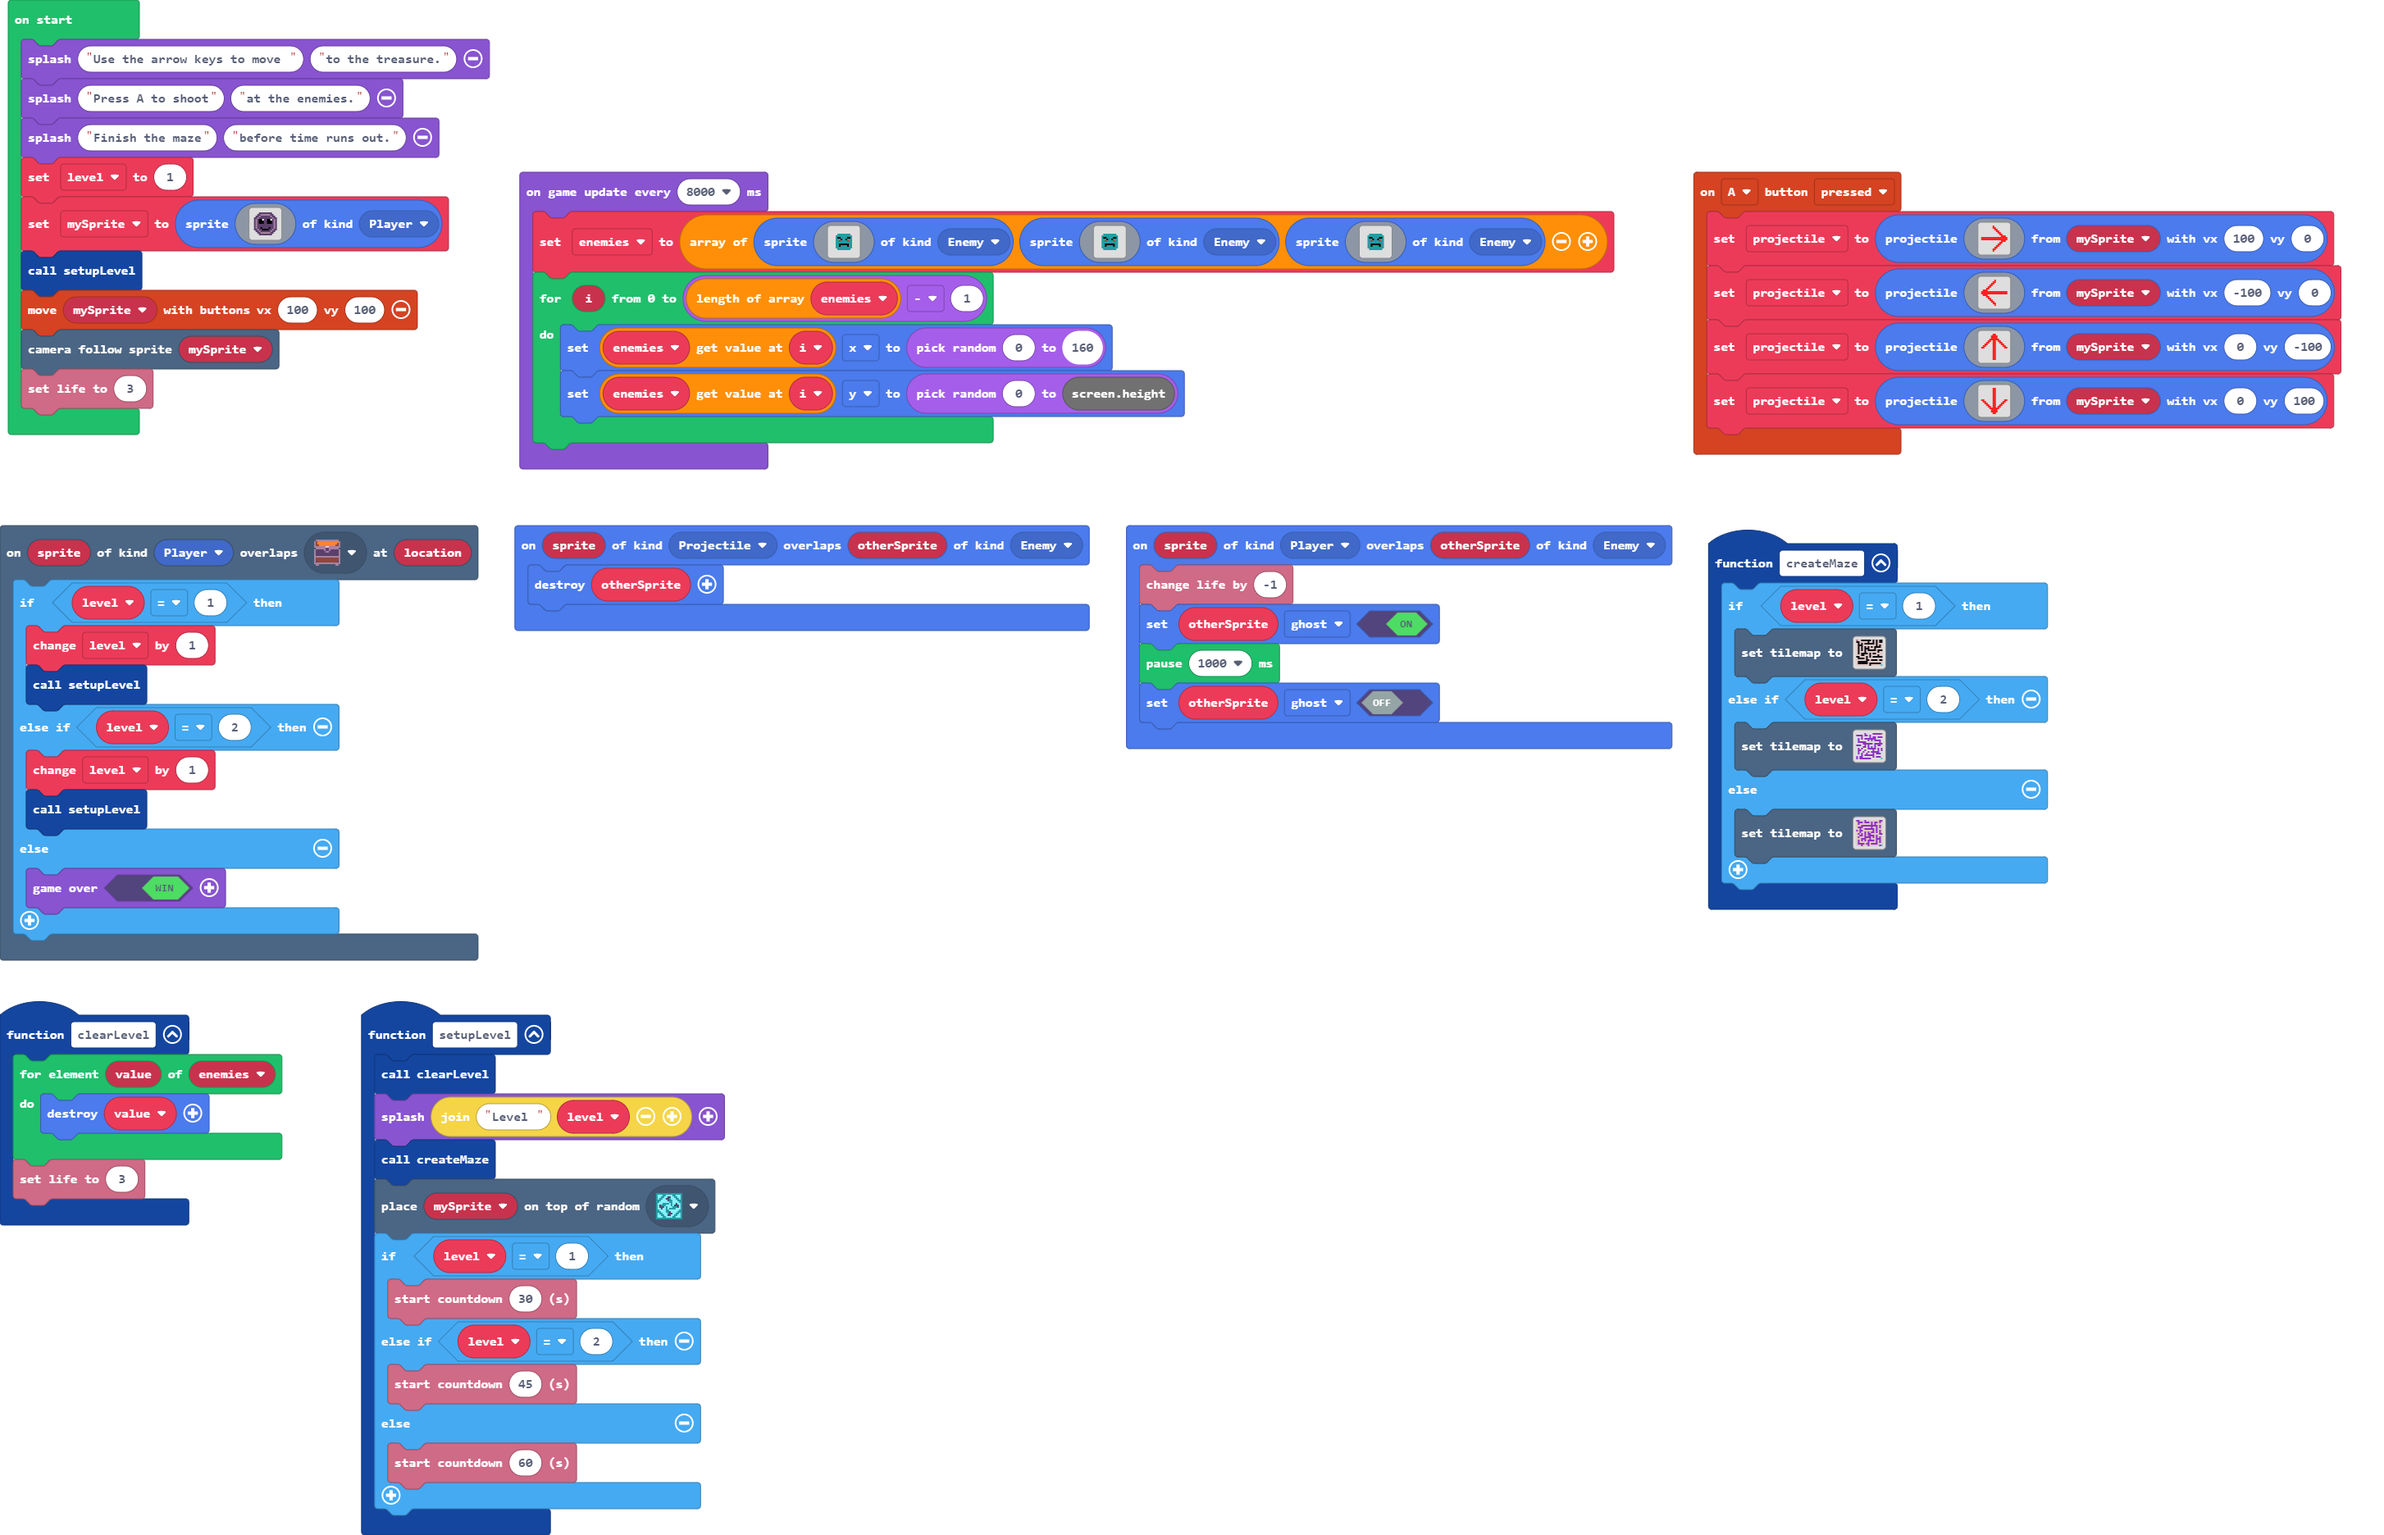
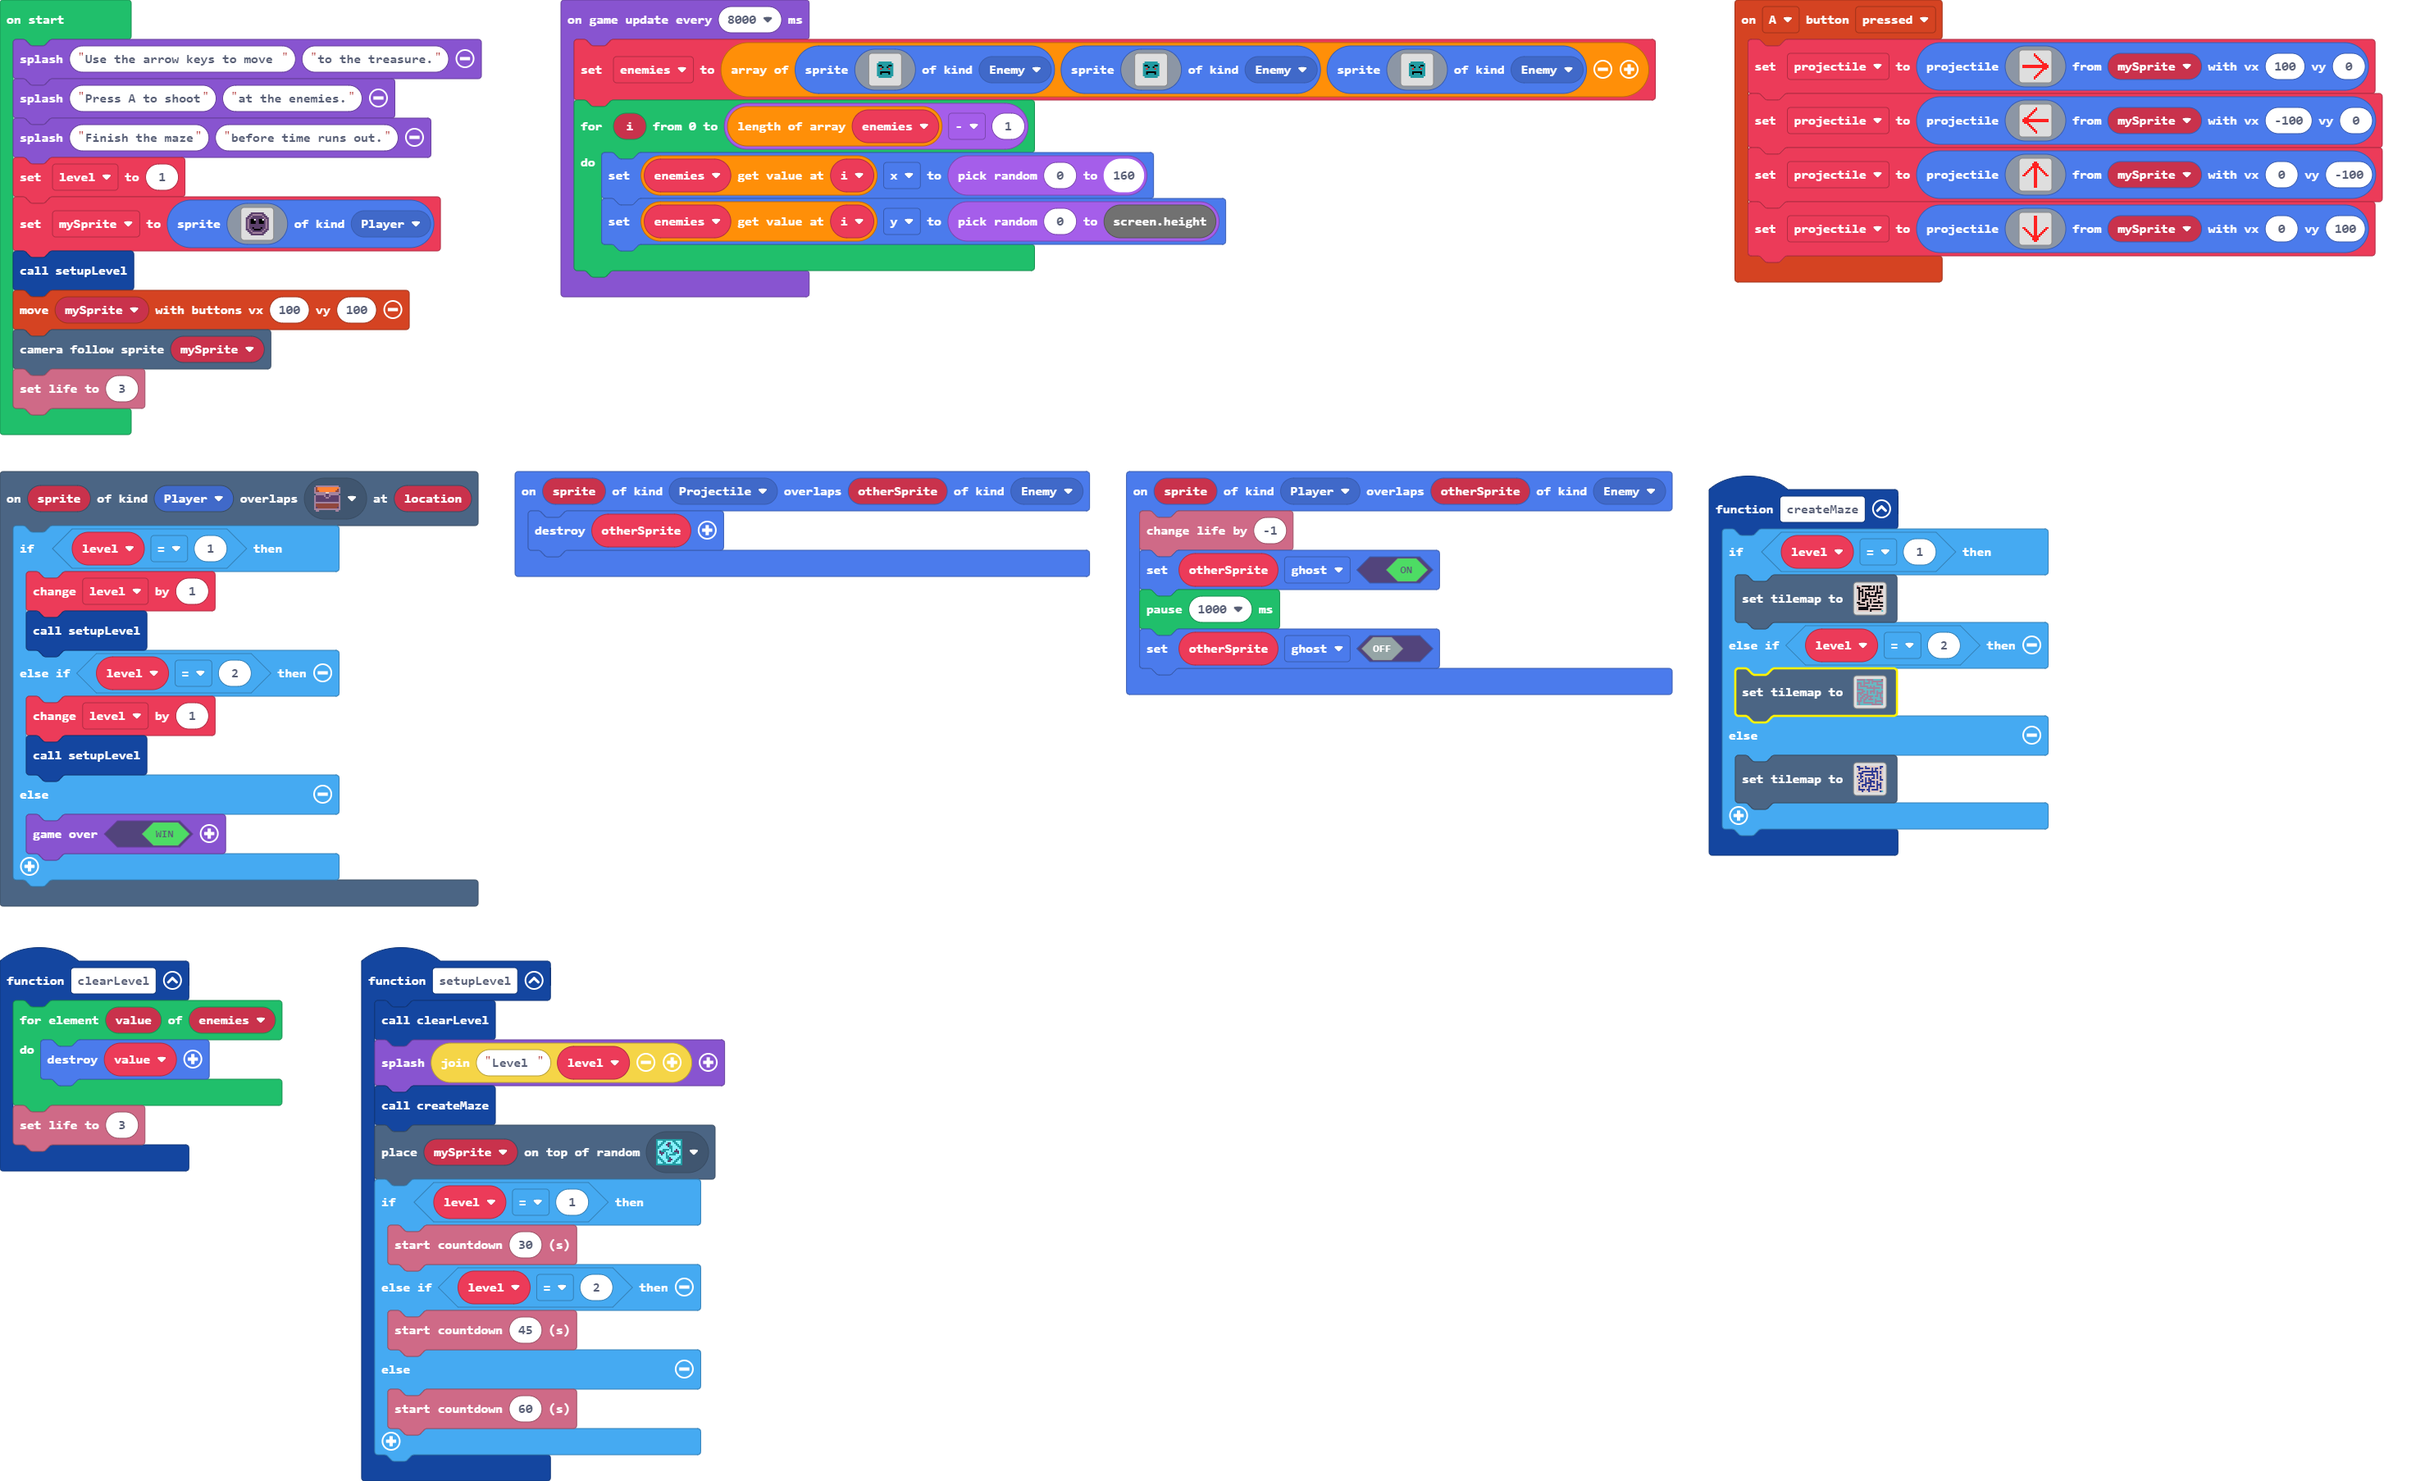
Update main.blocks, tilemap.g.jres, tilemap.g.ts

diff --git a/tilemap.g.ts b/tilemap.g.ts
@@ -8,6 +8,10 @@ namespace myTiles {
     export const tile2 = image.ofBuffer(hex``);
     //% fixedInstance jres blockIdentity=images._tile
     export const tile3 = image.ofBuffer(hex``);
+    //% fixedInstance jres blockIdentity=images._tile
+    export const tile4 = image.ofBuffer(hex``);
+    //% fixedInstance jres blockIdentity=images._tile
+    export const tile5 = image.ofBuffer(hex``);
 
     helpers._registerFactory("tilemap", function(name: string) {
         switch(helpers.stringTrim(name)) {
@@ -30,25 +34,6 @@ namespace myTiles {
 . . . . . . . . . . . . . . . . 
 . . . . . . . . . . . . . . . . 
 `, [myTiles.transparency16], TileScale.Sixteen);
-            case "level3":
-            case "level3":return tiles.createTilemap(hex`1000100000000000000100000000010101010103010101010001010001000000000000000000000100000000010001010001010100010001000101010101010100000000000100000000000100010001010101000001010101010000000000000000010000000000010101010101000101010101010101000001000100000001000101000000000001010001000100010000000000010001000000010101010100010001000101000001000000000100000100010001000001000001000101010101000000010001000001000000010001010100000000010001010101010100000000000100010100000000000001000101010001000101010101010100000000000002`, img`
-. . . . . 2 . . . . 2 2 2 2 2 . 
-2 2 2 2 . 2 2 . 2 . . . . . . . 
-. . . 2 . . . . 2 . 2 2 . 2 2 2 
-. 2 . 2 . 2 2 2 2 2 2 2 . . . . 
-. 2 . . . . . 2 . 2 . 2 2 2 2 . 
-. 2 2 2 2 2 . . . . . . . . 2 . 
-. . . . 2 2 2 2 2 2 . 2 2 2 2 2 
-2 2 2 . . 2 . 2 . . . 2 . 2 2 . 
-. . . . 2 2 . 2 . 2 . 2 . . . . 
-. 2 . 2 . . . 2 2 2 2 2 . 2 . 2 
-. 2 2 . . 2 . . . . 2 . . 2 . 2 
-. 2 . . 2 . . 2 . 2 2 2 2 2 . . 
-. 2 . 2 . . 2 . . . 2 . 2 2 2 . 
-. . . 2 . 2 2 2 2 2 2 . . . . . 
-2 . 2 2 . . . . . . 2 . 2 2 2 . 
-2 . 2 2 2 2 2 2 2 . . . . . . . 
-`, [myTiles.transparency16,sprites.swamp.swampTile9,sprites.dungeon.collectibleInsignia,sprites.dungeon.chestOpen], TileScale.Sixteen);
             case "level4":
             case "level4":return tiles.createTilemap(hex`1000100000000000000000000000000000000000000000000000000000000000000000000000000000000000000000000000000000000000000000000000000000000000000000000000000000000000000000000000000000000000000000000000000000000000000000000000000000000000000000000000000000000000000000000000000000000000000000000000000000000000000000000000000000000000000000000000000000000000000000000000000000000000000000000000000000000000000000000000000000000000000000000000000000000000000000000000000000000000000000000000000000000000000000000000000000000000`, img`
 . . . . . . . . . . . . . . . . 
@@ -125,25 +110,6 @@ namespace myTiles {
 . . . . . . . . . . . . . . . . 
 . . . . . . . . . . . . . . . . 
 `, [myTiles.transparency16], TileScale.Sixteen);
-            case "level8":
-            case "level8":return tiles.createTilemap(hex`1000100004040303030403030303030303030404030404040304040403040304040304030304030303030303030403040303030303030304040404040404040404030403030404040303030303040303040304030303040303040404040404030403030304030404030303030303040304030403030304030304030403040403040304030304030403040304040303030303040403030404030403020404040304030303030403030304040404030403040304030303030404040303040303030404040303040304030403040404040304030403030403030303030403030303040304030304040404030404030404040403030303030304030303040303030303030401`, img`
-2 2 . . . 2 . . . . . . . . 2 2 
-. 2 2 2 . 2 2 2 . 2 . 2 2 . 2 . 
-. 2 . . . . . . . 2 . 2 . . . . 
-. . . 2 2 2 2 2 2 2 2 2 2 . 2 . 
-. 2 2 2 . . . . . 2 . . 2 . 2 . 
-. . 2 . . 2 2 2 2 2 2 . 2 . . . 
-2 . 2 2 . . . . . . 2 . 2 . 2 . 
-. . 2 . . 2 . 2 . 2 2 . 2 . 2 . 
-. 2 . 2 . 2 . 2 2 . . . . . 2 2 
-. . 2 2 . 2 . . 2 2 2 . 2 . . . 
-. 2 . . . 2 2 2 2 . 2 . 2 . 2 . 
-. . . 2 2 2 . . 2 . . . 2 2 2 . 
-. 2 . 2 . 2 . 2 2 2 2 . 2 . 2 . 
-. 2 . . . . . 2 . . . . 2 . 2 . 
-. 2 2 2 2 . 2 2 . 2 2 2 2 . . . 
-. . . 2 . . . 2 . . . . . . 2 . 
-`, [myTiles.transparency16,sprites.dungeon.collectibleInsignia,sprites.dungeon.chestOpen,sprites.dungeon.floorLight2,sprites.swamp.swampTile9], TileScale.Sixteen);
             case "level1":
             case "level1":return tiles.createTilemap(hex`1000100002010103030303030301030103010303030301010101010301010301030103030103010301030303030303010301010101030303010101010101010103010301010301030103010301030103030303010103010301030303010101030101010101030103010301030303030301030303010301010103010101010101010301010103010303030301030103030101010101010103030101010301010101030101030301010101030103010303030303030103030303010301010101010101010101010101010103030103030303010303010303030303030101010101010101010103030303030301030303030303030101010101010101010301010101010104`, img`
 . . . 2 2 2 2 2 2 . 2 . 2 . 2 2 
@@ -163,6 +129,82 @@ namespace myTiles {
 . 2 2 2 2 2 2 . 2 2 2 2 2 2 2 . 
 . . . . . . . . 2 . . . . . . . 
 `, [myTiles.transparency16,sprites.dungeon.floorLight2,sprites.dungeon.chestOpen,myTiles.tile1,sprites.dungeon.collectibleInsignia], TileScale.Sixteen);
+            case "level9":
+            case "level9":return tiles.createTilemap(hex`1000100001010104040404010101010401010404010404040101040404040404040101040404010401010101040101010404010404010104010404010404040101040404040104040404010104010101010401040401010101040401040404040404010104040401040401010104010101010104040104040401010404040104010404040101010104010404010104040101010404040104040101040401010404040404040104010401040401010404010104010404040404010104040404010104040401010401040104040404010104040104040404010104040104010104040101040401010101010101040104040101010403010404040404040404040101040402`, img`
+. . . . . . . . . . . . . . . . 
+. . . . . . . . . . . . . . . . 
+. . . . . . . . . . . . . . . . 
+. . . . . . . . . . . . . . . . 
+. . . . . . . . . . . . . . . . 
+. . . . . . . . . . . . . . . . 
+. . . . . . . . . . . . . . . . 
+. . . . . . . . . . . . . . . . 
+. . . . . . . . . . . . . . . . 
+. . . . . . . . . . . . . . . . 
+. . . . . . . . . . . . . . . . 
+. . . . . . . . . . . . . . . . 
+. . . . . . . . . . . . . . . . 
+. . . . . . . . . . . . . . . . 
+. . . . . . . . . . . . . . . . 
+. . . . . . . . . . . . . . . . 
+`, [myTiles.transparency16,myTiles.tile4,sprites.dungeon.collectibleInsignia,sprites.dungeon.chestOpen,sprites.dungeon.floorDark2], TileScale.Sixteen);
+            case "level10":
+            case "level10":return tiles.createTilemap(hex`1000100000000000000000000000000000000000000000000000000000000000000000000000000000000000000000000000000000000000000000000000000000000000000000000000000000000000000000000000000000000000000000000000000000000000000000000000000000000000000000000000000000000000000000000000000000000000000000000000000000000000000000000000000000000000000000000000000000000000000000000000000000000000000000000000000000000000000000000000000000000000000000000000000000000000000000000000000000000000000000000000000000000000000000000000000000000000`, img`
+. . . . . . . . . . . . . . . . 
+. . . . . . . . . . . . . . . . 
+. . . . . . . . . . . . . . . . 
+. . . . . . . . . . . . . . . . 
+. . . . . . . . . . . . . . . . 
+. . . . . . . . . . . . . . . . 
+. . . . . . . . . . . . . . . . 
+. . . . . . . . . . . . . . . . 
+. . . . . . . . . . . . . . . . 
+. . . . . . . . . . . . . . . . 
+. . . . . . . . . . . . . . . . 
+. . . . . . . . . . . . . . . . 
+. . . . . . . . . . . . . . . . 
+. . . . . . . . . . . . . . . . 
+. . . . . . . . . . . . . . . . 
+. . . . . . . . . . . . . . . . 
+`, [myTiles.transparency16], TileScale.Sixteen);
+            case "level8":
+            case "level8":return tiles.createTilemap(hex`1000100003030404040304040404040404040303040303030403030304030403030403040403040404040404040304030404040404040403030303030303030303040304040303030404040404030404030403040404030404030303030303040304040403040303040404040404030403040304040403040403040304030304030403040403040304030403030404040404030304040303040304020303030403040404040304040403030303040304030403040404040303030404030404040303030404030403040304030303030403040304040304040404040304040404030403040403030303040303040303030304040404040403040404030404040404040301`, img`
+2 2 . . . 2 . . . . . . . . 2 2 
+. 2 2 2 . 2 2 2 . 2 . 2 2 . 2 . 
+. 2 . . . . . . . 2 . 2 . . . . 
+. . . 2 2 2 2 2 2 2 2 2 2 . 2 . 
+. 2 2 2 . . . . . 2 . . 2 . 2 . 
+. . 2 . . 2 2 2 2 2 2 . 2 . . . 
+2 . 2 2 . . . . . . 2 . 2 . 2 . 
+. . 2 . . 2 . 2 . 2 2 . 2 . 2 . 
+. 2 . 2 . 2 . 2 2 . . . . . 2 2 
+. . 2 2 . 2 . . 2 2 2 . 2 . . . 
+. 2 . . . 2 2 2 2 . 2 . 2 . 2 . 
+. . . 2 2 2 . . 2 . . . 2 2 2 . 
+. 2 . 2 . 2 . 2 2 2 2 . 2 . 2 . 
+. 2 . . . . . 2 . . . . 2 . 2 . 
+. 2 2 2 2 . 2 2 . 2 2 2 2 . . . 
+. . . 2 . . . 2 . . . . . . 2 . 
+`, [myTiles.transparency16,sprites.dungeon.collectibleInsignia,sprites.dungeon.chestOpen,myTiles.tile4,sprites.dungeon.floorLight2], TileScale.Sixteen);
+            case "level3":
+            case "level3":return tiles.createTilemap(hex`1000100004040404040304040404030303030302030303030403030403040404040404040404040304040404030403030403030304030403040303030303030304040404040304040404040304030403030303040403030303030404040404040404030404040404030303030303040303030303030303040403040304040403040303040404040403030403040304030404040404030403040404030303030304030403040303040403040404040304040304030403040403040403040303030303040404030403040403040404030403030304040404030403030303030304040404040304030304040404040403040303030403040303030303030304040404040401`, img`
+. . . . . 2 . . . . 2 2 2 2 2 . 
+2 2 2 2 . 2 2 . 2 . . . . . . . 
+. . . 2 . . . . 2 . 2 2 . 2 2 2 
+. 2 . 2 . 2 2 2 2 2 2 2 . . . . 
+. 2 . . . . . 2 . 2 . 2 2 2 2 . 
+. 2 2 2 2 2 . . . . . . . . 2 . 
+. . . . 2 2 2 2 2 2 . 2 2 2 2 2 
+2 2 2 . . 2 . 2 . . . 2 . 2 2 . 
+. . . . 2 2 . 2 . 2 . 2 . . . . 
+. 2 . 2 . . . 2 2 2 2 2 . 2 . 2 
+. 2 2 . . 2 . . . . 2 . . 2 . 2 
+. 2 . . 2 . . 2 . 2 2 2 2 2 . . 
+. 2 . 2 . . 2 . . . 2 . 2 2 2 . 
+. . . 2 . 2 2 2 2 2 2 . . . . . 
+2 . 2 2 . . . . . . 2 . 2 2 2 . 
+2 . 2 2 2 2 2 2 2 . . . . . . . 
+`, [myTiles.transparency16,sprites.dungeon.collectibleInsignia,sprites.dungeon.chestOpen,myTiles.tile5,sprites.dungeon.floorDark2], TileScale.Sixteen);
         }
         return null;
     })
@@ -176,6 +218,10 @@ namespace myTiles {
             case "tile2":return tile2;
             case "myTile1":
             case "tile3":return tile3;
+            case "myTile2":
+            case "tile4":return tile4;
+            case "myTile3":
+            case "tile5":return tile5;
         }
         return null;
     })
